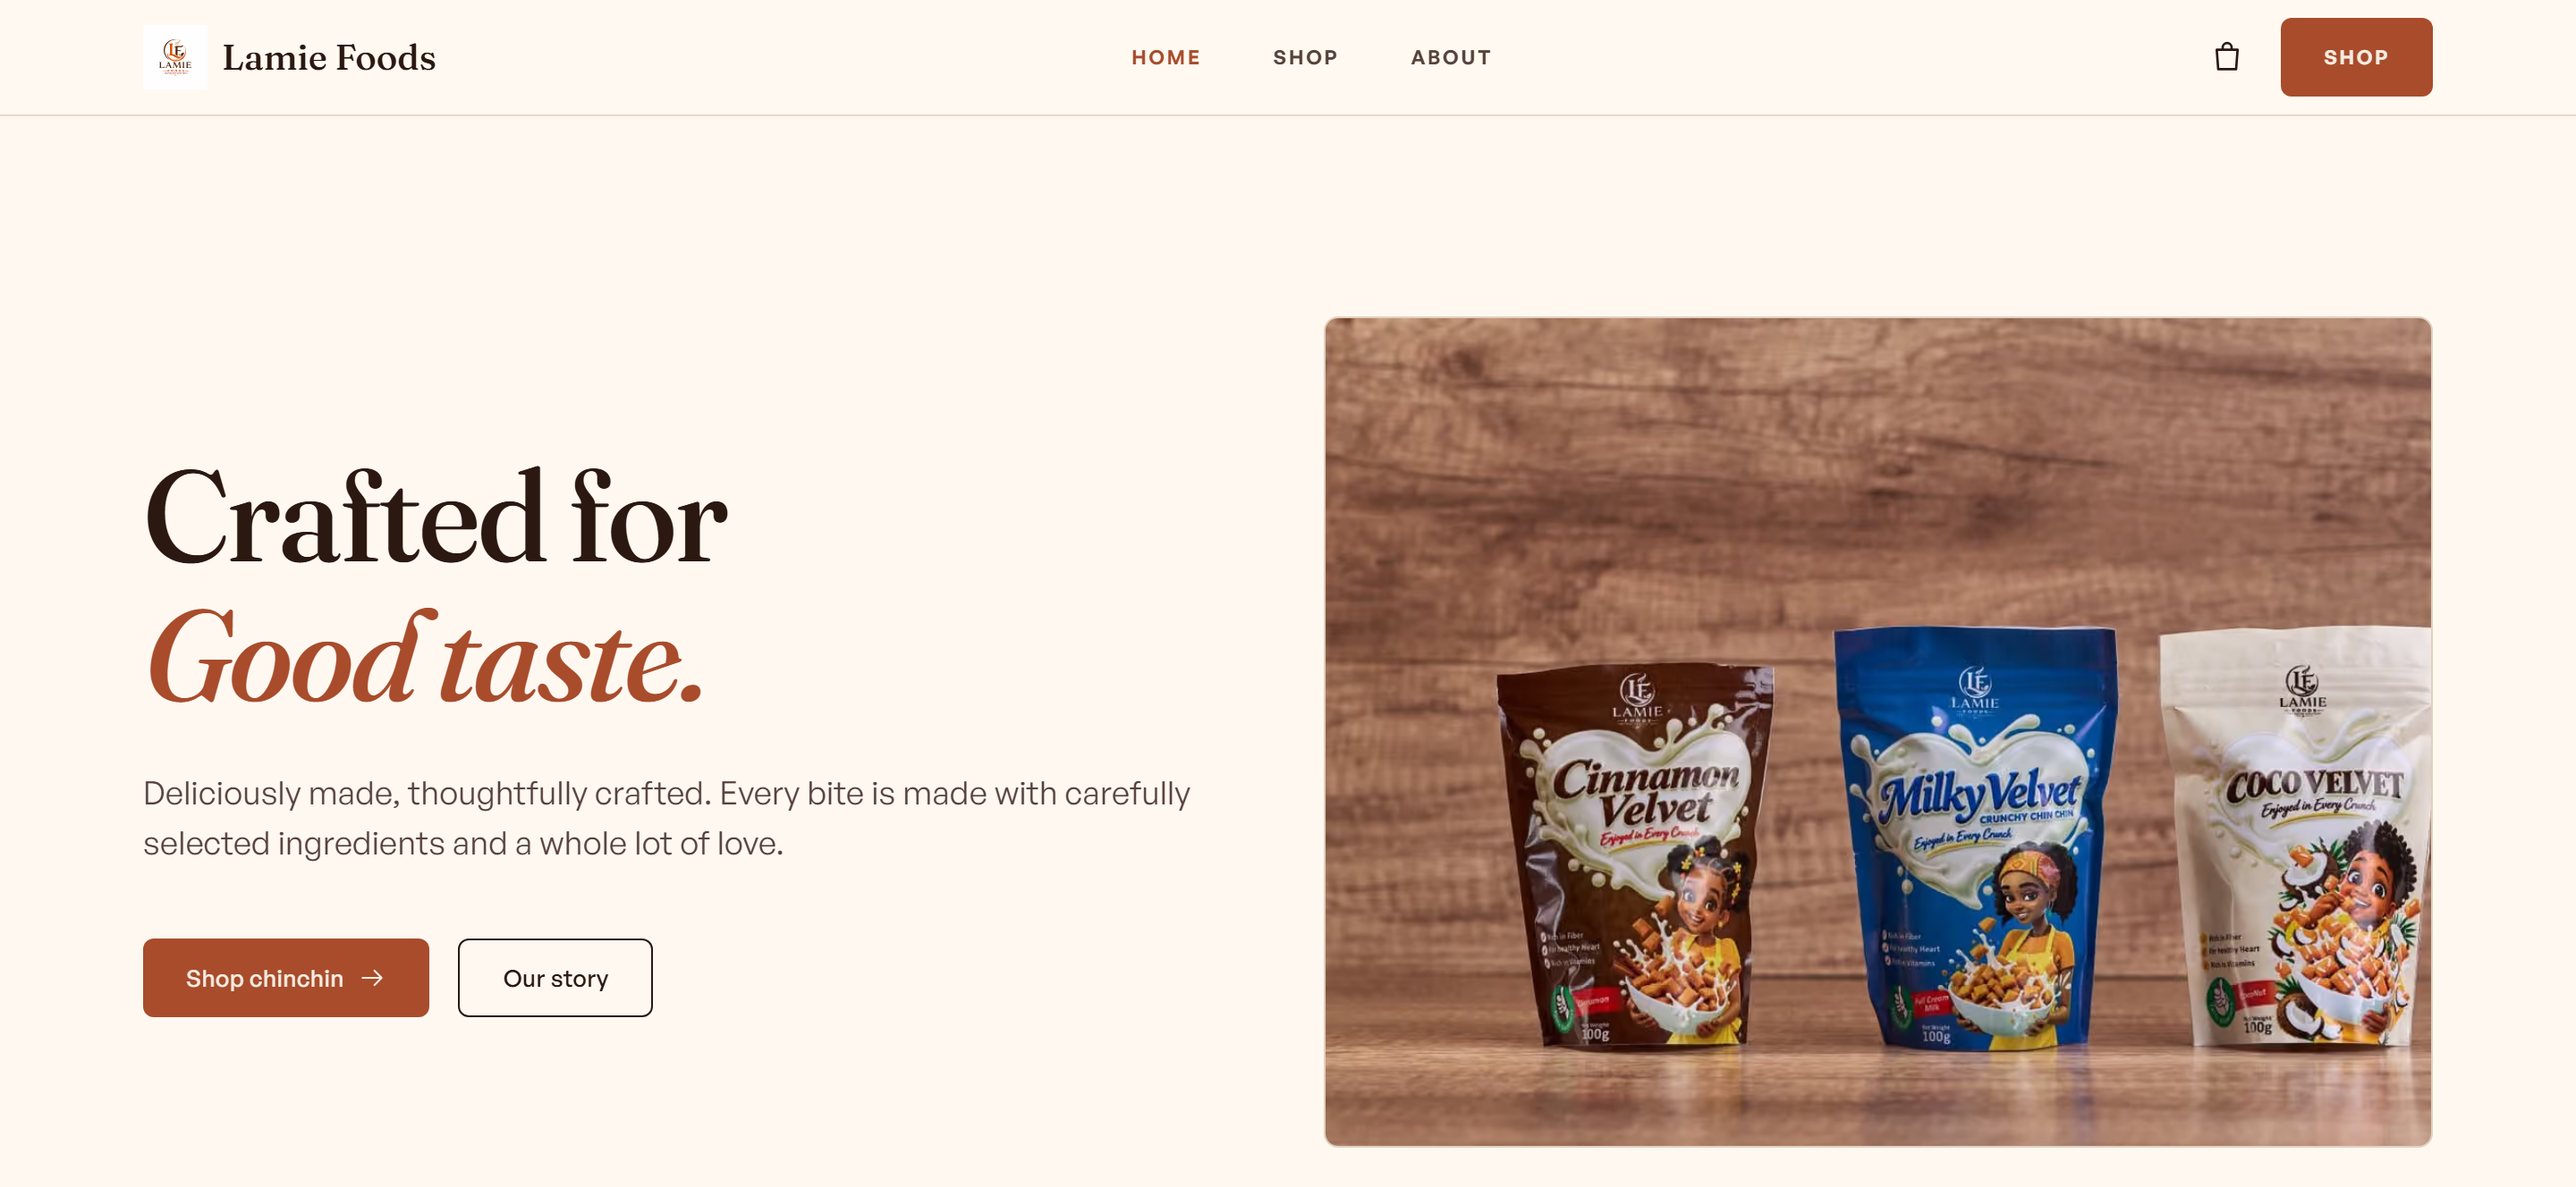
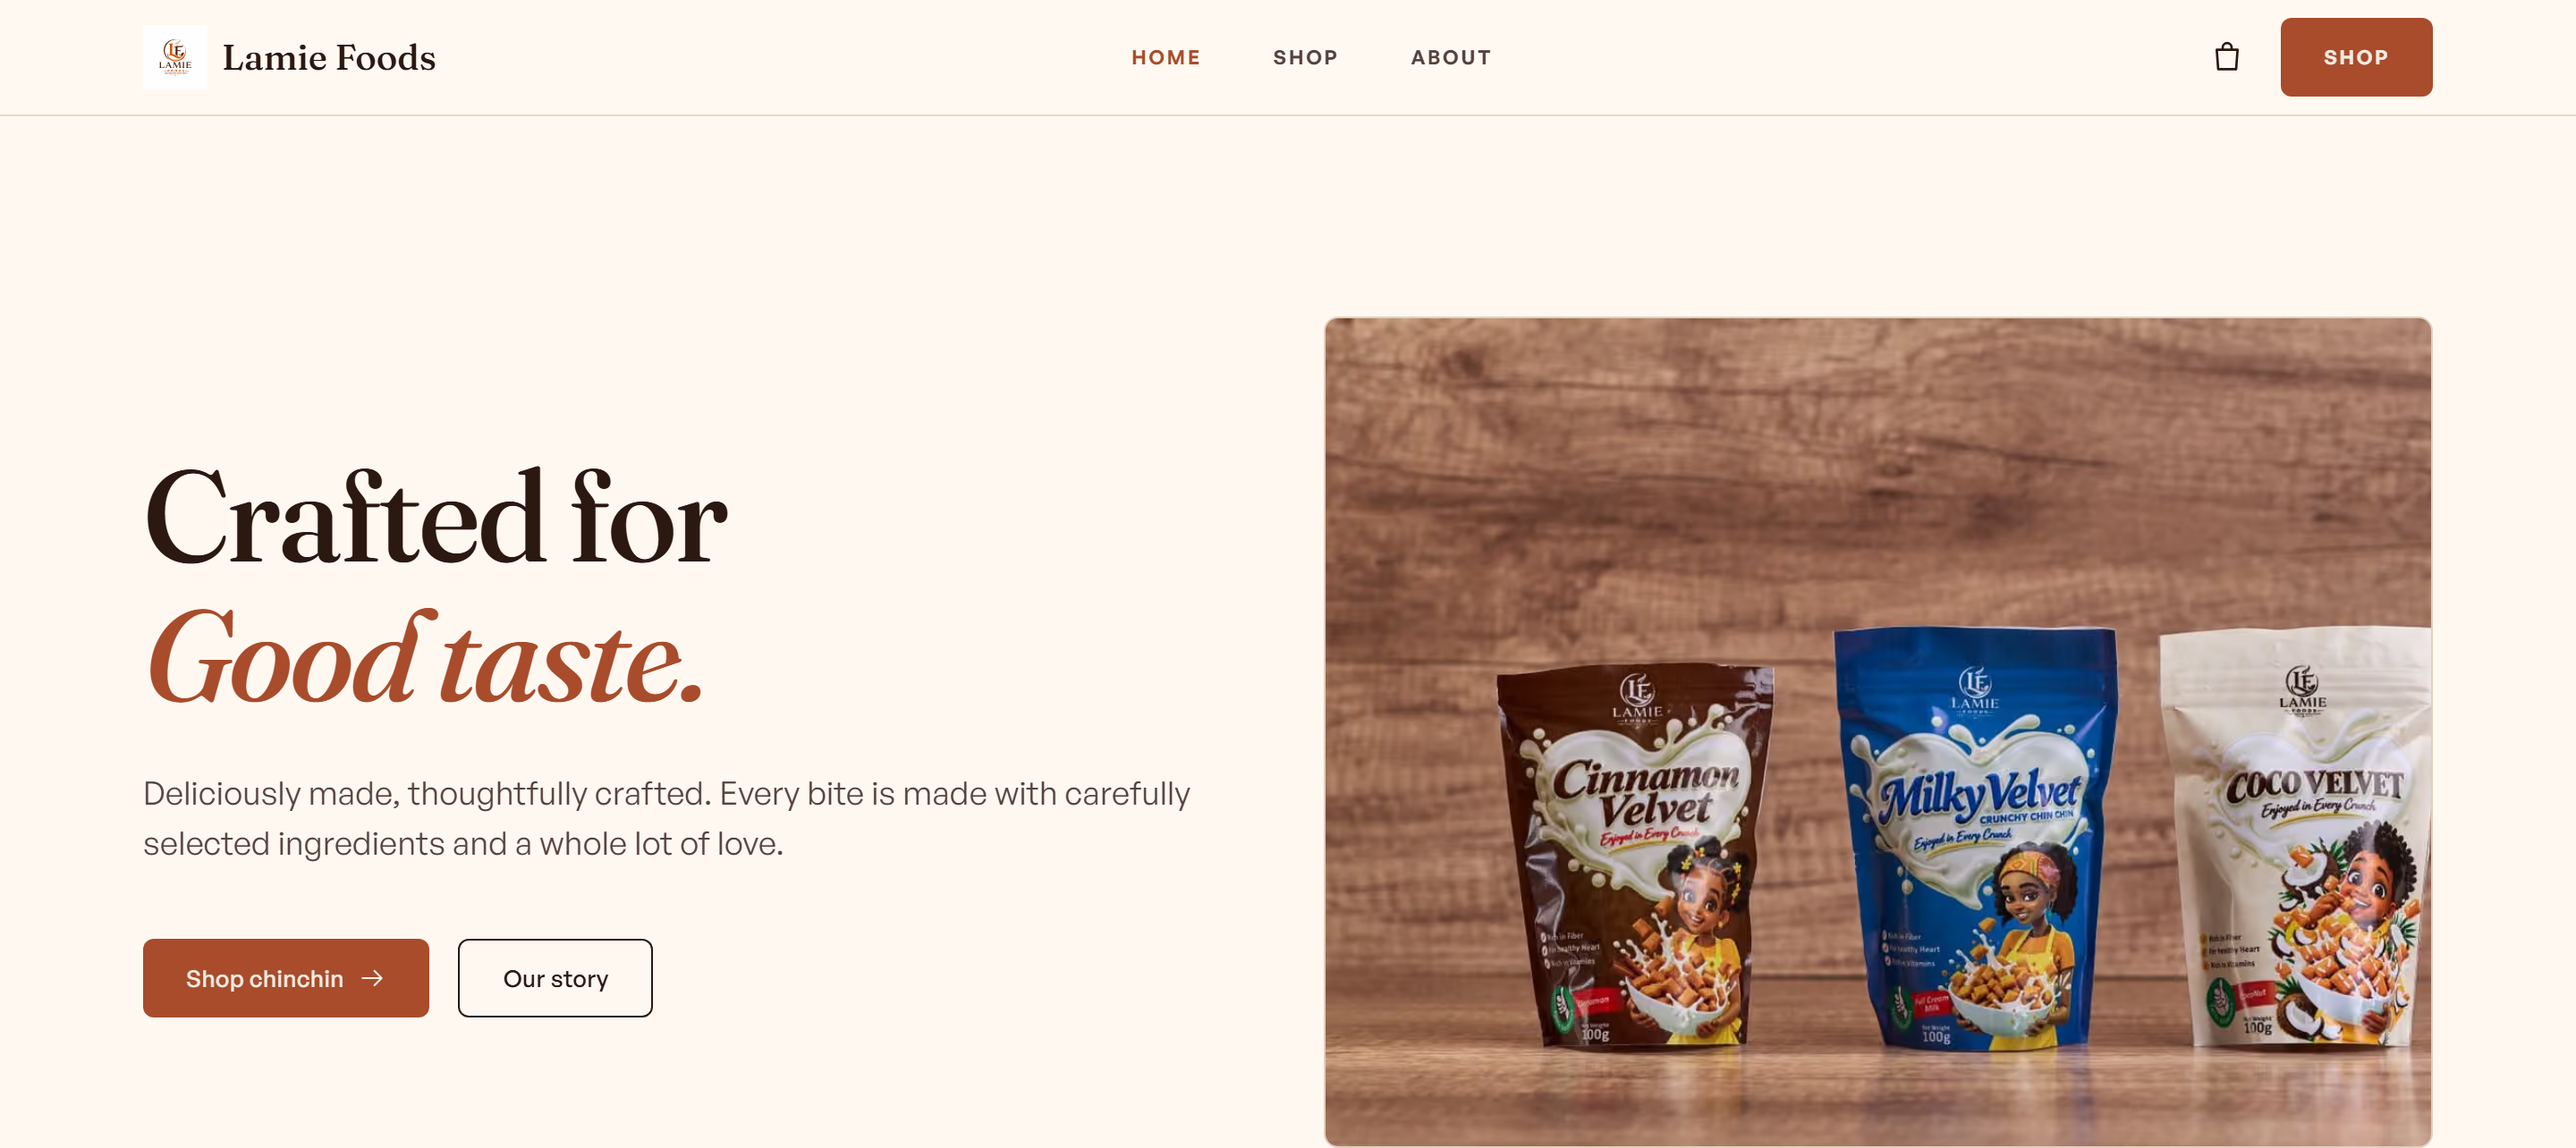
Polish footer alignment and pricing note visibility.

diff --git a/css/styles.css b/css/styles.css
@@ -69,6 +69,7 @@ button {
 .container {
   width: min(1120px, calc(100% - 2.5rem));
   margin-inline: auto;
+  padding-inline: 0;
 }
 
 /* ----- Buttons (only two styles) ----- */
@@ -143,6 +144,25 @@ button {
 
 .section {
   padding: clamp(3rem, 6vw, 4.75rem) 0;
+}
+
+/* Tighten only the three middle gaps (keep bottom CTA/footer as-is) */
+#work.section {
+  padding-bottom: clamp(1.5rem, 3vw, 2.35rem);
+}
+
+#process.section {
+  padding-top: clamp(1.5rem, 3vw, 2.35rem);
+  padding-bottom: clamp(1.5rem, 3vw, 2.35rem);
+}
+
+#build.section {
+  padding-top: clamp(1.5rem, 3vw, 2.35rem);
+  padding-bottom: clamp(1.15rem, 2.4vw, 1.85rem);
+}
+
+#pricing.section {
+  padding-top: clamp(1.15rem, 2.4vw, 1.85rem);
 }
 
 .section-cream {
@@ -370,11 +390,12 @@ button {
 }
 
 .laptop-screen {
-  background: #FCFCFA;
+  background: #1a1f1c;
   border: 1px solid rgba(26, 77, 46, 0.18);
   border-radius: 10px 10px 4px 4px;
   overflow: hidden;
   box-shadow: var(--shadow);
+  line-height: 0;
 }
 
 .laptop-screen img {
@@ -570,7 +591,7 @@ button {
 }
 
 .pricing-card {
-  width: min(100%, 620px);
+  width: min(100%, 800px);
   background: var(--white);
   border: 1px solid var(--line);
   border-radius: 16px;
@@ -653,11 +674,13 @@ button {
 }
 
 .pricing-note {
+  display: block;
   margin-top: 1.15rem;
+  margin-bottom: 0;
   text-align: center;
-  font-size: 0.875rem;
+  font-size: 0.9rem;
   line-height: 1.55;
-  color: var(--text-light);
+  color: var(--text-mid);
 }
 
 /* ============================================================
@@ -709,13 +732,19 @@ button {
 .footer {
   background: var(--green-footer);
   color: rgba(245, 247, 244, 0.78);
-  padding-top: 1.5rem;
+  padding: 1.5rem 1.25rem 0;
+}
+
+.footer .container {
+  width: min(1120px, 100%);
+  margin-inline: auto;
 }
 
 .footer-grid {
   display: grid;
   gap: 1.5rem;
   padding-bottom: 1.15rem;
+  text-align: left;
 }
 
 .footer-brand {
@@ -840,9 +869,14 @@ button {
   }
 
   .footer-grid {
-    grid-template-columns: repeat(3, 1fr);
-    gap: 2rem;
+    grid-template-columns: repeat(3, minmax(0, 1fr));
+    gap: clamp(2rem, 5vw, 4rem);
     align-items: start;
+    text-align: left;
+  }
+
+  .footer-grid .footer-links {
+    justify-items: start;
   }
 }
 

diff --git a/index.html b/index.html
@@ -88,7 +88,7 @@
                 src="assets/images/shoplamie-foods.png"
                 alt=""
                 width="2880"
-                height="1328"
+                height="1284"
                 loading="eager"
               >
             </div>
